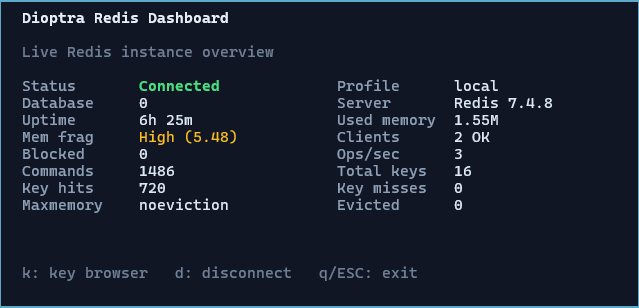
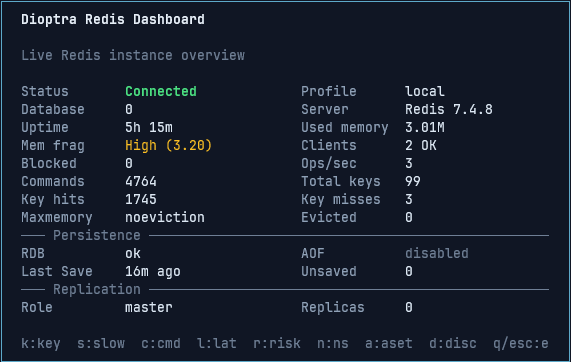
Update README.md

Changed region(s): [[0.0, 0.0, 1.0, 1.0], [0.4466, 0.9351, 0.8336, 0.9643], [0.7145, 0.8474, 0.7443, 0.8766]]

diff --git a/README.md b/README.md
@@ -24,9 +24,85 @@
   <img src="https://img.shields.io/badge/Clikt-5.0.3-a6adc8?style=flat&labelColor=1e1e2e" alt="Clikt 5.0.3">
 </p>
 
-![Connection Info](.github/assets/connection.png)
-![Dashboard Info](.github/assets/dashboard.png)
-![Key Browser](.github/assets/key-browser.png)
+<table>
+  <tr>
+    <th colspan="2" align="left">Connection Setup</th>
+  </tr>
+  <tr>
+    <td width="58%">
+      <img src=".github/assets/connections.png" alt="Dioptra Redis connection screen">
+    </td>
+    <td width="42%">
+      Connect to an explicit Redis instance through a local form, saved profile, or CLI-provided defaults. Dioptra keeps passwords out of saved profiles and lets each profile carry namespace analysis rules such as delimiters, expected namespaces, allowed patterns, and ignored patterns.
+    </td>
+  </tr>
+  <tr>
+    <th colspan="2" align="left">Redis Dashboard</th>
+  </tr>
+  <tr>
+    <td width="58%">
+      <img src=".github/assets/dashboard.png" alt="Dioptra Redis dashboard">
+    </td>
+    <td width="42%">
+      See the current Redis health at a glance: connection status, selected database, server version, memory usage, client count, key count, ops/sec, keyspace hits and misses, persistence status, replication role, and operational warning hints.
+    </td>
+  </tr>
+  <tr>
+    <th colspan="2" align="left">Key Browser</th>
+  </tr>
+  <tr>
+    <td width="58%">
+      <img src=".github/assets/key-browser.png" alt="Dioptra key browser">
+    </td>
+    <td width="42%">
+      Browse Redis keys with cursor-based <code>SCAN</code>, pattern search, page sorting, and per-key metadata. The table highlights key type, TTL, memory usage, no-TTL keys, and large keys so risky entries stand out before opening details.
+    </td>
+  </tr>
+  <tr>
+    <th colspan="2" align="left">Key Detail</th>
+  </tr>
+  <tr>
+    <td width="58%">
+      <img src=".github/assets/key-detail.png" alt="Dioptra key detail screen">
+    </td>
+    <td width="42%">
+      Inspect a selected key with type-aware previews for strings, hashes, lists, sets, sorted sets, and streams. Dioptra shows TTL and memory metadata, collection size summaries, JSON-aware previews, pagination hints, raw view toggles, and safe operation shortcuts.
+    </td>
+  </tr>
+  <tr>
+    <th colspan="2" align="left">Namespace Analysis</th>
+  </tr>
+  <tr>
+    <td width="58%">
+      <img src=".github/assets/namespace-analysis.png" alt="Dioptra namespace analysis screen">
+    </td>
+    <td width="42%">
+      Group keys into namespaces and review their operational risk. The analysis summarizes key count, TTL coverage, no-TTL concentration, estimated memory share, health score, risky namespaces, unexpected namespaces, and naming anomalies.
+    </td>
+  </tr>
+  <tr>
+    <th colspan="2" align="left">Slowlog Viewer</th>
+  </tr>
+  <tr>
+    <td width="58%">
+      <img src=".github/assets/slowlog-viewer.png" alt="Dioptra slowlog viewer">
+    </td>
+    <td width="42%">
+      Review Redis slowlog entries with duration, command, argument preview, client information, repeated command grouping, suspicious command warnings, and risk classification for commands such as <code>KEYS</code>, <code>EVAL</code>, large collection reads, and broad scans.
+    </td>
+  </tr>
+  <tr>
+    <th colspan="2" align="left">Safe Operation Confirmation</th>
+  </tr>
+  <tr>
+    <td width="58%">
+      <img src=".github/assets/safe-operation.png" alt="Dioptra safe operation confirmation">
+    </td>
+    <td width="42%">
+      Confirm destructive operations before they run. Delete and expire flows show a focused preview of the target key, type, TTL state, and memory usage, with explicit confirm and cancel actions to reduce accidental production mistakes.
+    </td>
+  </tr>
+</table>
 
 ## What Dioptra Does
 
@@ -134,28 +210,39 @@ Dioptra is **under active development**. It is **not** a stable, versioned produ
 - Namespace analysis settings in the connection form
 - Runtime namespace analysis settings screen with persistent save for saved profiles
 - Allowed-key suppression and ignored-key exclusion controls for namespace analysis
+- Risk analysis screen for big keys, no-TTL keys, large collections, risky key patterns, eviction warnings, and maxmemory policy warnings
+- Top-N largest keys and top-N no-TTL keys
+- Large HASH, LIST, SET, ZSET, and STREAM detection
+- Safe expire and delete actions from key detail
+- Delete confirmation and destructive operation preview
+- Read-only mode, production safety mode, protected namespace rules, safe error messages, and operation audit logging
 - Dashboard disconnect flow back to the connection screen
 - Reusable TUI theme and components
 - Terminal backend selection for Windows, Linux, WSL, and macOS
 
-### Planned For v0.1
+### Planned Next
 
-- Safe delete with confirmation
-- Expire key action
-- Further key-detail polish (editing values, richer formatting, edge-case hardening)
+- Markdown report export
+- Session summary on exit
+- Save analysis snapshot
+- Diff two snapshots
+- Compare before/after cleanup
+- Generate redis-cli command suggestions
+- Command palette
+- Bookmark namespaces
+- Profile import/export
+- Team-shareable profile templates without secrets
 
 ### Planned For Later Versions
 
-- Deeper dashboard metrics and warnings beyond the current Redis INFO overview
-- Big key and no-TTL analysis with top-N views and risk markers
-- Safer operations including read-only mode, production safety mode, protected namespace rules, dry-run previews, and operation audit logs
-- Markdown report export, session summaries, analysis snapshots, and before/after comparison
-- Advanced Redis workflows such as Pub/Sub monitor, stream consumer group inspection, stream lag warnings, and MONITOR-based live command feed
-- Environment workflow helpers such as Docker Compose detection, SSH tunnel profiles, profile import/export, and team-shareable profile templates without secrets
-- Optional connection pool if concurrent analysis or monitoring workflows require it
+- Stream consumer group overview and stream lag warnings
+- Pub/Sub monitor and MONITOR live feed, with an explicit warning before enabling MONITOR
+- Docker Compose Redis helper
+- SSH tunnel profiles
+- Basic Redis Cluster support
 - Optional AI-assisted analysis after deterministic reports are available, including local-first health summaries, namespace risk explanations, cleanup plan narration, and "what should I inspect next?" recommendations
 - Optional semantic cache inspection using embedding providers, with `redis/langcache-embed-v3-small` as a possible local embedding model candidate
-- GraalVM native-image distribution
+- Testcontainers Redis integration tests, release zip/tar.gz validation, and GraalVM native-image investigation
 
 ## Connection Configuration
 